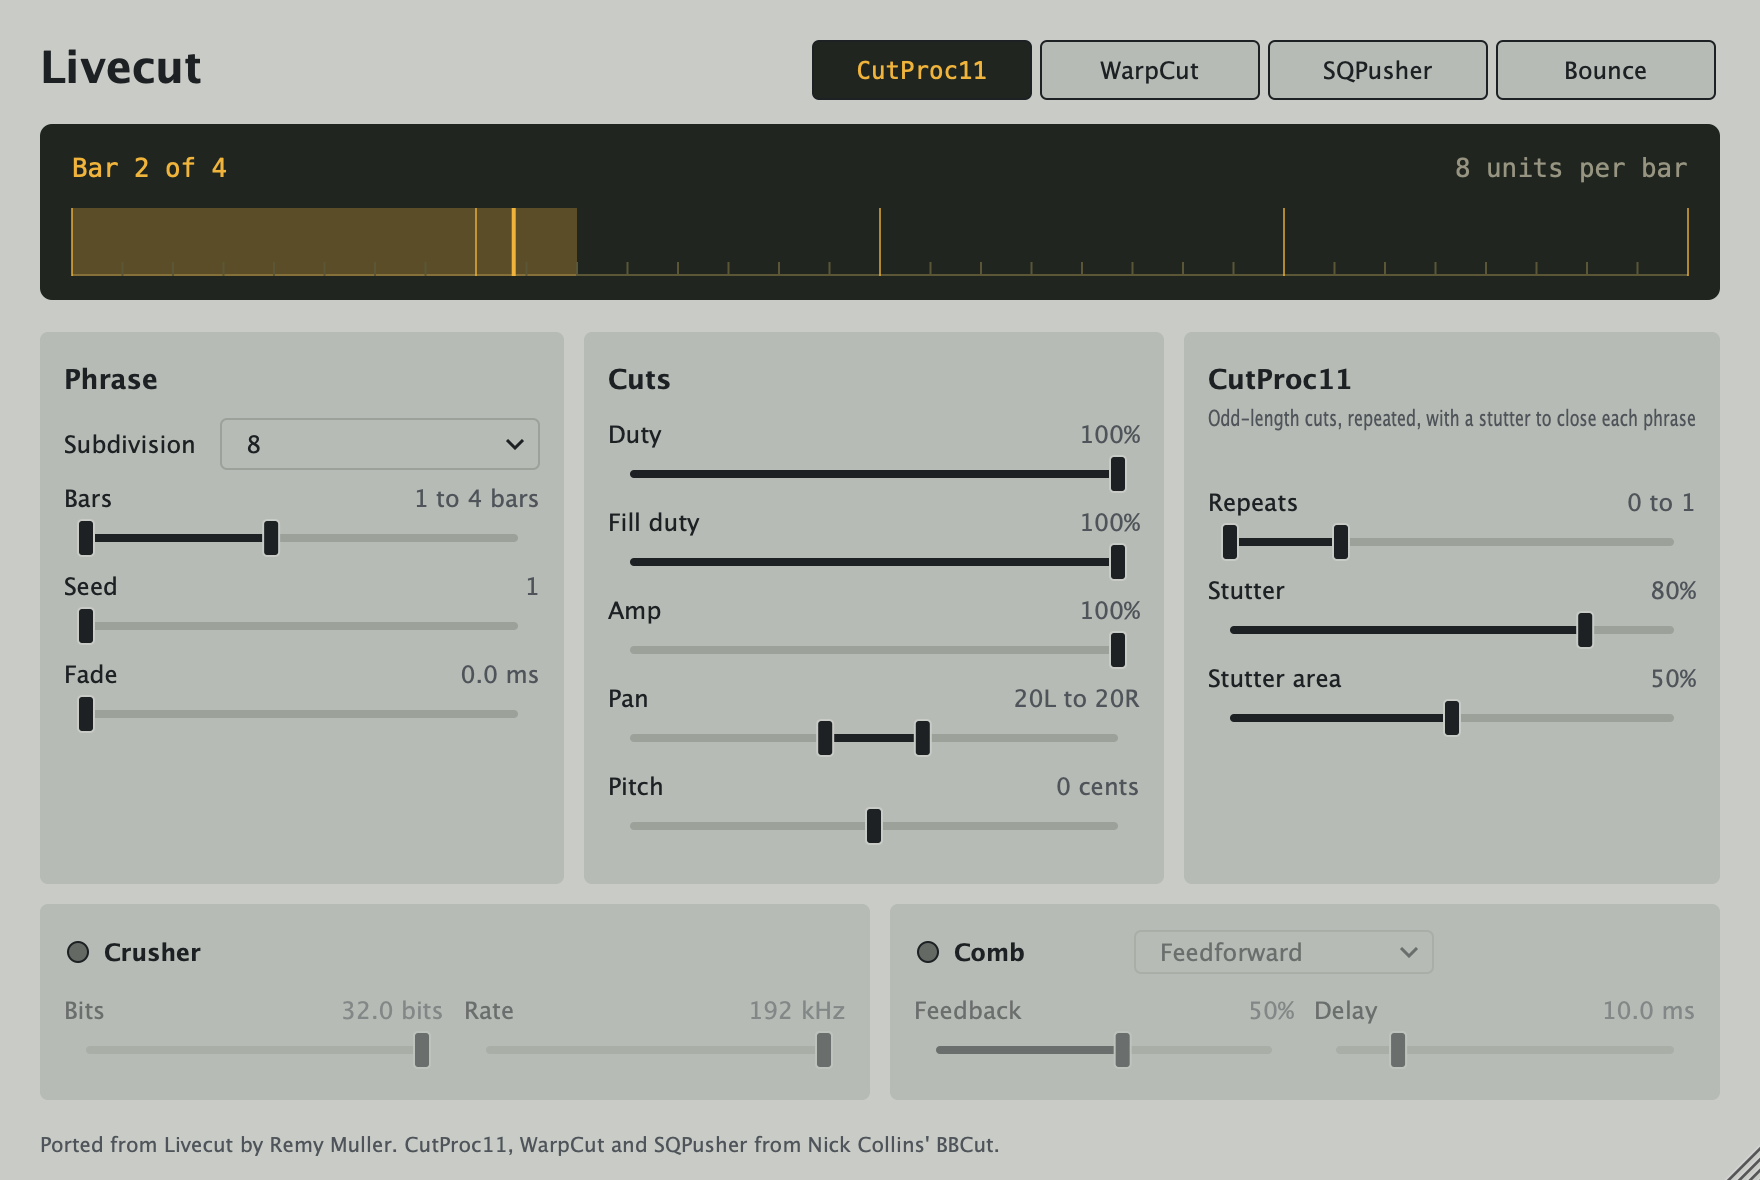
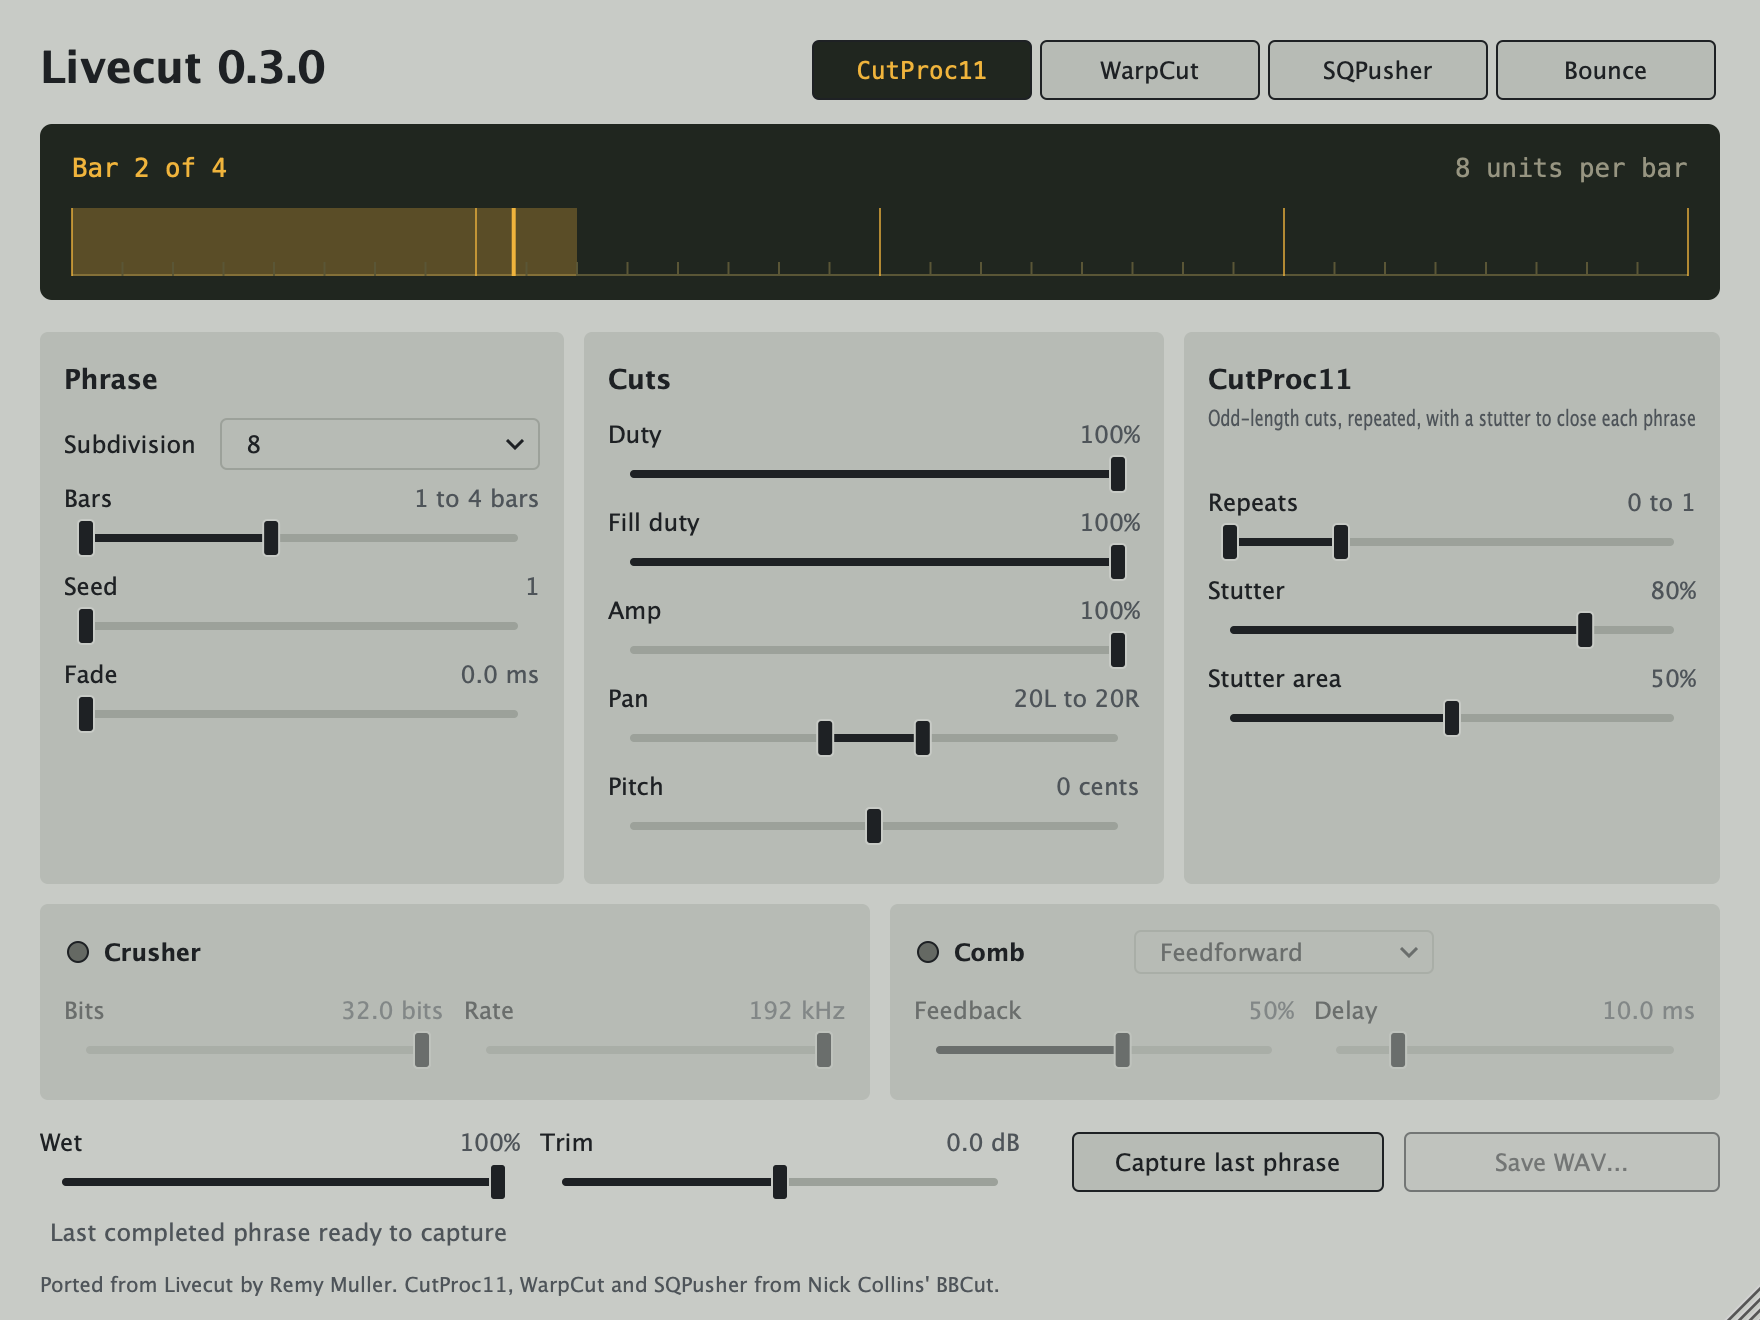
docs: document capture workflow limits and validation

diff --git a/docs/releases/0.3.0.md b/docs/releases/0.3.0.md
@@ -1,0 +1,66 @@
+# Livecut 0.3.0 — Capture
+
+Capture the last fully completed natural Cutter phrase and save exactly what
+left the plug-in as a stereo 32-bit IEEE float WAV at the processing sample rate.
+Global Wet and Trim controls make subtle parallel processing available.
+
+## Using Capture
+
+1. Play through a whole phrase. The capture status shows when a complete phrase
+   is ready. Starting or seeking in the middle of a phrase waits for the next
+   full phrase; partial audio is never offered as a completed phrase.
+2. Press **Capture last phrase** to keep the most recently completed phrase.
+   Copying runs on a background worker. Capturing again replaces that snapshot.
+3. Press **Save WAV...** and choose a file. Saving uses the exact selected path
+   and replaces it only through the native save dialog's overwrite flow.
+
+Stopping, seeking or a meter change discards the in-progress candidate. A
+previous complete phrase remains available to capture after stopping, without
+needing another running audio callback. A successful captured snapshot remains
+available independently of subsequent playback, stopping and sample-rate changes.
+WAV files preserve values above 0 dBFS; they are not normalized or clipped.
+
+**Wet** uses a linear blend from dry input to the Cutter and its effects.
+**Trim** runs after that blend, from −24 to +24 dB, including when transport is
+stopped or timing cannot be cut. Both controls use a 20 ms linear ramp. Defaults
+are 100% Wet and exactly 0 dB Trim, preserving the previous release's output.
+
+## Bounds and ownership
+
+The recorder prepares two stereo float buffers for up to 64 seconds each,
+covering the engine's longest phrase: eight bars at eight seconds per bar.
+Capacity is capped at 12,288,000 frames per buffer, so rates above 192 kHz have
+less than 64 seconds available. A phrase that exceeds capacity is rejected in
+full, with a visible capacity message; any previous completed phrase is explicitly
+identified as still available. Nothing is silently truncated.
+
+The two buffers use approximately 49.2 MB at 48 kHz, 98.3 MB at 96 kHz and
+196.6 MB at 192 kHz, in decimal MB, excluding the existing cutting engine.
+Pressing Capture allocates an independent snapshot of only the completed phrase
+(up to another 24.6 / 49.2 / 98.3 MB at those rates). Preparing a new sample rate
+while a worker holds a lease temporarily keeps that old leased storage alive.
+File writing uses small fixed-size chunks rather than a whole-file conversion.
+
+Audio-thread ownership is handed to the capture worker with atomic slot states.
+The callback neither allocates, waits nor copies a complete phrase. If the worker
+still leases the prior slot at the next phrase boundary, that new candidate is
+skipped and a busy message appears; recording continues. Snapshot copying and
+WAV creation run off the callback, and an editor can close while a job finishes.
+
+## State and compatibility
+
+Existing parameter IDs, indices, ranges and random seed behavior remain stable.
+Wet and Output Trim are appended with AU parameter version hint 3. Saved state
+adds `schemaVersion=3` and `algorithmVersion=2`; unversioned older state remains
+readable. Missing controls restore their defaults even on an already adjusted
+instance. Captured audio is transient and is not embedded in DAW project state.
+
+Hold, file drag-out, time-stretching and look-ahead are outside 0.3.0.
+
+## Validation
+
+The initial compiled feature tests failed on 0.2.0 for absent mixer controls,
+capture UI and state version properties. Additional failing regressions proved
+the exact-buffer-end stop/loop case and stale status text before their fixes.
+The validation record is in `0.3.0-validation.md`. Automated processor tests and
+editor rendering are not listening or manual DAW validation.

diff --git a/docs/releases/0.3.0-validation.md b/docs/releases/0.3.0-validation.md
@@ -1,0 +1,63 @@
+# Livecut 0.3.0 implementation validation
+
+Local environment: Apple Silicon macOS, AppleClang 21, CMake, pinned JUCE 9.0.4
+(`3fb5cbc0340758596dac39f7c8de47d562b4896e`) and Catch2 3.16.1.
+
+## RED
+
+Before implementation, compiled `LivecutTests '[capture]'` against the 0.2.0
+sources. All three new feature cases failed (four assertions): no Wet parameter,
+no capture controls, and absent schema/algorithm versions.
+
+During integration, independent review identified an exact-buffer-end completion
+gap and durable job status hiding live readiness/capacity. Two focused regression
+cases were run against the affected implementation and failed five assertions.
+They cover a completed phrase ending at the host buffer end before stop/loop,
+and failed early capture followed by readiness / saved snapshot followed by an
+oversized candidate. The corrected implementation passes both.
+
+The exact classic-output check also caught nonzero normalization rounding at the
+asymmetric trim range's default. The symmetric −24 to +24 dB range gives an exact
+0 dB default and passes bit-for-bit equivalence.
+
+## GREEN
+
+Commands:
+
+```sh
+cmake -S . -B build-capture -DCMAKE_BUILD_TYPE=Debug -DCMAKE_OSX_ARCHITECTURES=arm64
+cmake --build build-capture --target LivecutTests LivecutEngineTests --parallel 6
+ctest --test-dir build-capture --output-on-failure
+cmake -S . -B build-capture/release -DCMAKE_BUILD_TYPE=Release -DCMAKE_OSX_ARCHITECTURES=arm64
+cmake --build build-capture/release --target Livecut_VST3 Livecut_AU Livecut_Standalone --parallel 6
+cmake -DRELEASE_TAG=v0.3.0 -P packaging/check-release-version.cmake
+```
+
+- Full Debug suite: **152/152 tests passed**, 22.03 seconds.
+- Capture tests cover only complete phrases, exact capacity and oversize rejection,
+  stopped/seek retention, long-held immutable leases, 10,000 concurrent publication
+  iterations, lease lifetime across preparation, independent captured snapshots,
+  exact stereo float WAV samples/rate/channel count (including values above 1),
+  write errors and exact user-selected filenames.
+- Processor integration covers multiple boundaries in one buffer, end-boundary
+  completion before stop/loop, zero allocations with a leased export and repeated
+  boundaries, exact classic-output equivalence for all four procedures, and old
+  state restored onto previously adjusted controls.
+- At **44.1 / 48 / 96 kHz**, an actual sample comparison checks a whole phrase
+  whose tempo changes from 120 to 90 BPM mid-phrase. Meter changes discard the
+  in-progress candidate and the next complete 3/4 phrase replaces it.
+- Engine event tests prove sample offsets across multiple boundaries and prevent
+  double completion after an exclusive-end event.
+- Editor tests cover all parameter/control IDs, capture/save enablement and a
+  background capture finishing after editor destruction. The generated editor
+  screenshot is `docs/editor.png`.
+- The release-version guard's eight positive/negative fixtures pass, and the
+  actual `v0.3.0` tag/version comparison passes without pushing a tag.
+
+## Scope of this record
+
+Local Release bundles are ARM64. CI must still produce/validate universal macOS
+and Windows release artifacts and perform signing/notarisation. The local build
+does not install into user plug-in folders. No PR, tag, release, listening test or
+manual DAW/export/import validation is claimed by this implementation record;
+the coordinating task tracks those steps separately.

diff --git a/README.md b/README.md
@@ -20,7 +20,7 @@ on Apple Silicon, Intel Macs and Windows.
 
 The LCD across the top shows the phrase being cut: its bars and units, the
 block playing now and the playhead. Livecut follows the host's transport; while
-the host is stopped, audio passes through untouched.
+the host is stopped, dry audio passes through the output trim.
 
 ## Status
 
@@ -37,6 +37,11 @@ Work in progress, landing as a stack of small pull requests:
 7. **Release**: signed and notarised installers.
 8. **0.2.0 / Bounce**: a fourth cut procedure, with triplet bounces, climbing
    ratchets and halftime bars.
+9. **0.3.0 / Capture**: keep the last completed phrase, save stereo float WAV,
+   and blend dry/wet audio with a smoothed output trim.
+
+See [the 0.3.0 release notes](docs/releases/0.3.0.md) for capture behavior,
+capacity, memory use and compatibility.
 
 ## Building
 
